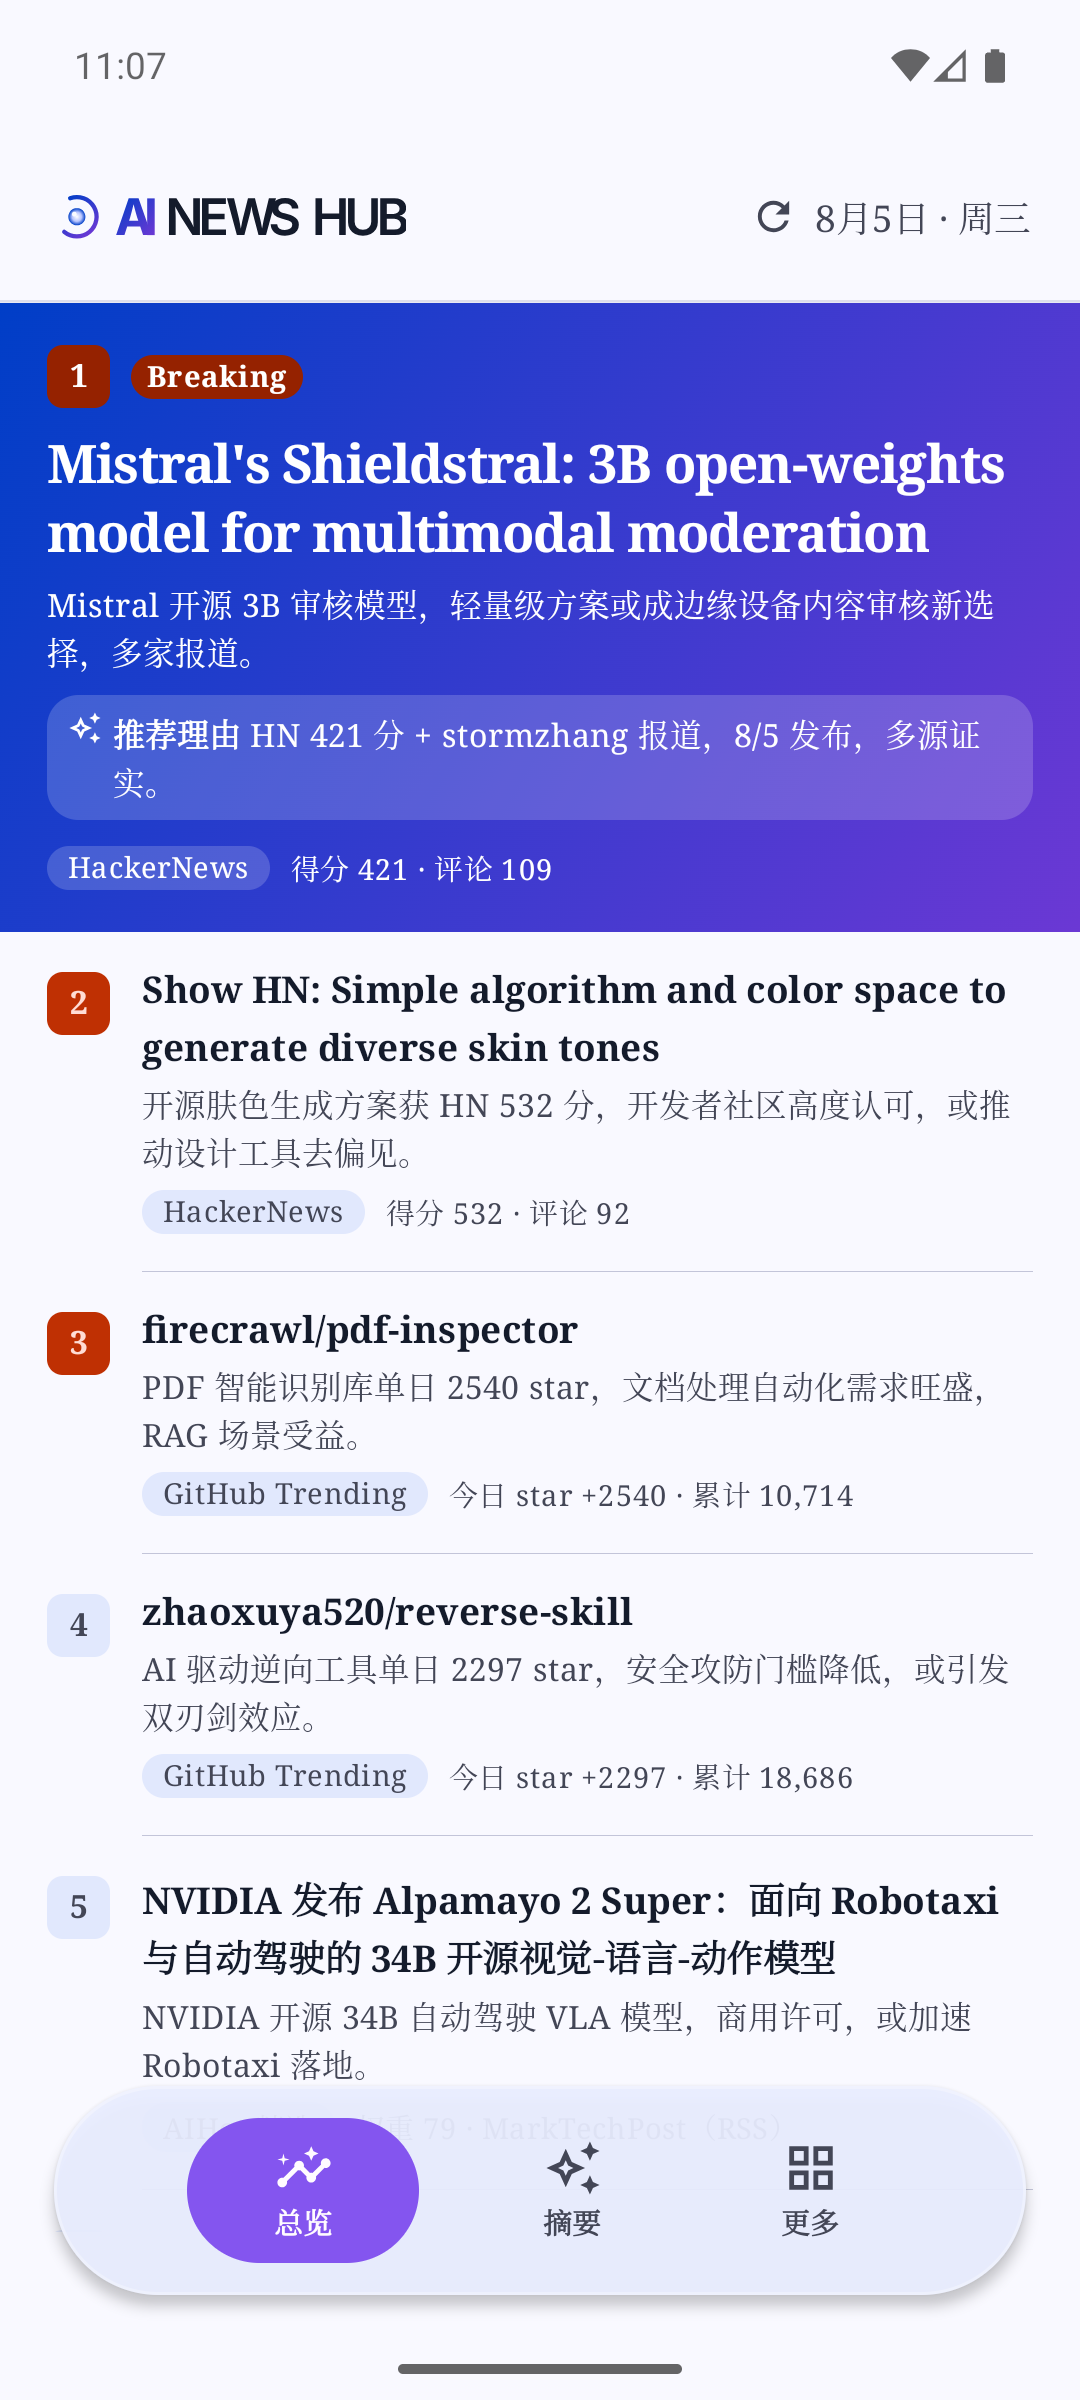
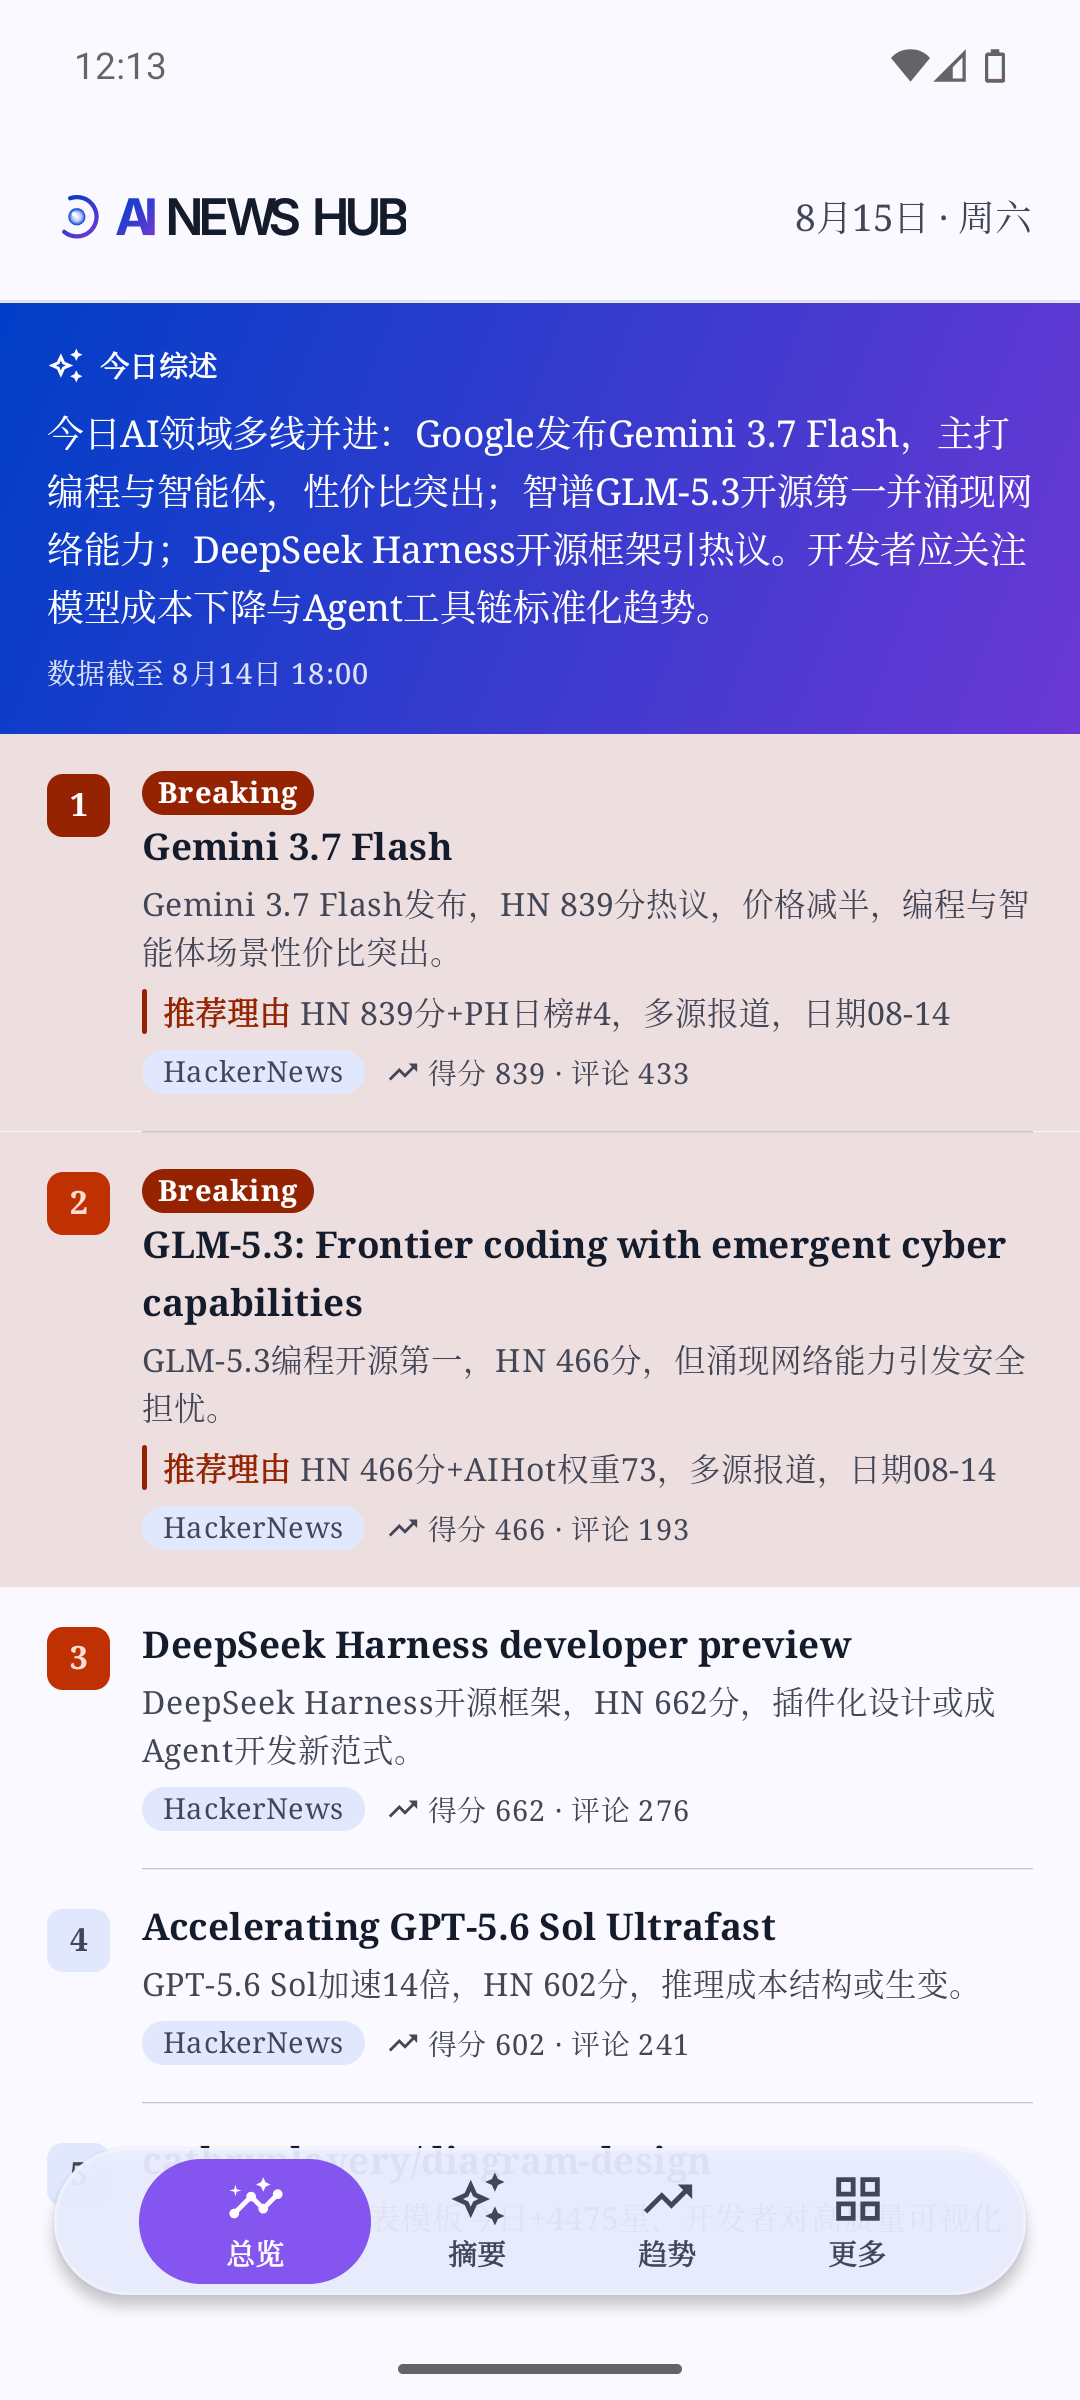
docs: sync docs and screenshots with v1.2.0 features
- README (en/zh): four root tabs with Trends, pull-to-refresh note,
  favorites & daily-notification entries, WebView star/auto-hide bullets,
  drop stale Inter Font credit and live-fetch row, add WorkManager 2.10.0,
  multi-batch pipeline wording, 5-per-row screenshot grid incl. Trends
- CHANGELOG: record WebView bottom-bar auto-hide and perf fixes under 1.2.0
- AGENTS.md: note 08:00/18:00 pipeline batches run on external machines
- data usage doc: multi-batch schedule, fix stale tab naming
- screenshots: retake all screens on current build (1080x2400), add Trends

diff --git a/README.md b/README.md
@@ -21,7 +21,7 @@ Download the latest APK from the [Releases](https://github.com/burgessjp/AI-News
 ## Why use it
 
 - **Read the whole AI world in one screen** — Aggregates 8 high-quality sources (HackerNews, GitHub Trending, HuggingFace Papers, Product Hunt, and more) so you can catch up on the day in one app.
-- **AI does the heavy lifting** — A companion pipeline pre-generates Chinese bullet points for every source and a cross-source "Today's Top 10" every day. Open and read instantly, zero waiting. Breaking items are flagged.
+- **AI does the heavy lifting** — A companion pipeline pre-generates Chinese bullet points for every source, a cross-source "Today's Top 10", and a keyword-trends leaderboard every day. Open and read instantly, zero waiting. Breaking items are flagged.
 - **You control the sources** — long-press and drag the source tiles to customize the order.
 - **Your AI key stays yours** — Runtime AI features like full-page translation ship with no built-in key. You bring your own provider (DeepSeek / Zhipu GLM / any OpenAI-compatible service), stored only in app-private storage.
 - **Read everything in-app** — Every link in the app opens in the built-in WebView with Reader Mode and full-page translation. No jumping out to an external browser.
@@ -31,7 +31,7 @@ Download the latest APK from the [Releases](https://github.com/burgessjp/AI-News
 
 ## 📖 Overview
 
-**AI News Hub** aggregates multiple high-quality AI sources — HackerNews, GitHub Trending, HuggingFace Papers, Product Hunt, stormzhang AI, The Rundown AI, OpenAI × Anthropic updates, plus the "AIHot Picks" and AI Daily from `aihot.virxact.com` — and layers on top of them "Today's Top 10", "Chinese summaries", and "full-page translation" so you can finish the day's AI news in a single app.
+**AI News Hub** aggregates multiple high-quality AI sources — HackerNews, GitHub Trending, HuggingFace Papers, Product Hunt, stormzhang AI, The Rundown AI, OpenAI × Anthropic updates, plus the "AIHot Picks" and AI Daily from `aihot.virxact.com` — and layers on top of them "Today's Top 10", "keyword trends", "Chinese summaries", and "full-page translation" so you can finish the day's AI news in a single app.
 
 - Tech stack: Kotlin + Jetpack Compose + Material 3
 - Single-module project, package name `com.peng.ainewshub`
@@ -39,25 +39,28 @@ Download the latest APK from the [Releases](https://github.com/burgessjp/AI-News
 
 ## Screenshots
 
-| Overview | Summary | Sources | HackerNews |
-|:---:|:---:|:---:|:---:|
-| <img src="docs/screenshots/01-overview.png" width="200" alt="Overview"> | <img src="docs/screenshots/02-summary.png" width="200" alt="Summary"> | <img src="docs/screenshots/03-sources.png" width="200" alt="Sources"> | <img src="docs/screenshots/04-hackernews.png" width="200" alt="HackerNews"> |
+| Overview | Trends | Summary | Sources | HackerNews |
+|:---:|:---:|:---:|:---:|:---:|
+| <img src="docs/screenshots/01-overview.png" width="160" alt="Overview"> | <img src="docs/screenshots/02-trends.png" width="160" alt="Trends"> | <img src="docs/screenshots/03-summary.png" width="160" alt="Summary"> | <img src="docs/screenshots/04-sources.png" width="160" alt="Sources"> | <img src="docs/screenshots/05-hackernews.png" width="160" alt="HackerNews"> |
 
-| OpenAI × Anthropic | GitHub Trending | The Rundown AI | Settings |
-|:---:|:---:|:---:|:---:|
-| <img src="docs/screenshots/05-openai-anthropic.png" width="200" alt="OpenAI × Anthropic"> | <img src="docs/screenshots/06-github-trending.png" width="200" alt="GitHub Trending"> | <img src="docs/screenshots/07-the-rundown-ai.png" width="200" alt="The Rundown AI"> | <img src="docs/screenshots/08-settings.png" width="200" alt="Settings"> |
+| GitHub Trending | OpenAI × Anthropic | The Rundown AI | Settings | |
+|:---:|:---:|:---:|:---:|:---:|
+| <img src="docs/screenshots/06-github-trending.png" width="160" alt="GitHub Trending"> | <img src="docs/screenshots/07-openai-anthropic.png" width="160" alt="OpenAI × Anthropic"> | <img src="docs/screenshots/08-the-rundown-ai.png" width="160" alt="The Rundown AI"> | <img src="docs/screenshots/09-settings.png" width="160" alt="Settings"> | |
 
 ---
 
 ## ✨ Core features
 
-### Three root tabs
+### Four root tabs
 
 | Tab | What it does |
 |-----|--------|
-| **Overview** | Cross-source "Today's Top 10" — a comprehensive analysis pre-generated by the pipeline. Items the AI flags as "breaking" get a Breaking badge and a distinct style, pinned to the top. Open and read, zero waiting. |
-| **Summary** | The day's AI bullet points (in Chinese, pre-generated by the pipeline) for 8 archived sources. Instant, no waiting. |
-| **More** | Settings, AI service config, source hub, archive history, AI Daily archive, About, etc. |
+| **Overview** | The day's cross-source digest (a 2–3 sentence "today at a glance" hero) plus "Today's Top 10" — both pre-generated by the pipeline. Items the AI flags as "breaking" get a Breaking badge and a distinct style, sorted to the top. Open and read, zero waiting. |
+| **Summary** | The day's AI bullet points (in Chinese, pre-generated by the pipeline) for 8 archived sources; tap an entry to open the original article in the built-in WebView. Instant, no waiting. |
+| **Trends** | Cross-source keyword leaderboard computed from the last 14 days of snapshots (pure statistics, no AI): window hit counts, a mini trend line, and up/down markers; tap a keyword to expand its representative articles. |
+| **More** | Settings, AI service config, source hub, favorites (read-later), archive history, AI Daily archive, About, etc. |
+
+The three content tabs (Overview / Summary / Trends) support **pull-to-refresh**, which bypasses the archive cache to pick up the pipeline's latest batch right away.
 
 ### Browse area (More → Sources)
 
@@ -86,6 +89,8 @@ Every link in the app opens in-app, never in an external browser:
 
 - Reader Mode (injects Mozilla Readability to extract the article body)
 - Full-page translation (side-by-side with the original, draggable half/full-screen panel)
+- Star any page from the top bar to save it to Favorites (read-later)
+- The bottom toolbar auto-hides while scrolling down and comes back on scroll up
 - Web downloads, HTML5 video fullscreen, long-press image/link actions
 - Font size follows the system setting
 
@@ -93,7 +98,8 @@ Every link in the app opens in-app, never in an external browser:
 
 - **AI Daily** and **historical archive** (browse back by date)
 - **Search**: local search history + trending-word hints from Today's Hot
-- **Browsing history** (stored locally in Room)
+- **Browsing history & Favorites** (stored locally in Room; star any page from the built-in WebView to read it later)
+- **Daily update notification** (optional, off by default): a local notification when the pipeline publishes new content, at most one per day; with it on, a cold start on new data also shows a quick "view" dialog
 - **Theme**: Material You dynamic color (Android 12+), font family toggle (default / serif / monospace), size presets, dark mode
 - **Languages**: switch between Simplified Chinese and English
 
@@ -160,8 +166,8 @@ Open the app → **More → AI Service**, pick a provider preset (DeepSeek / Zhi
 | Category | Source | Notes |
 |------|------|------|
 | Third-party API | `aihot.virxact.com` public API | AIHot Picks (Today's Hot + TOP20), AI Daily and archive |
-| Third-party · live | HackerNews, GitHub Trending, HuggingFace Papers, etc. | Fetched directly inside the app |
-| Third-party · archive | Companion data pipeline | Fetched daily at 15:30 (Beijing time) + AI-summarized + pushed to the [gitcode data repo](https://gitcode.com/peng1818/AI-News-Hub-Data) |
+| Third-party · live (partial) | HackerNews comments | Fetched live from the Firebase API inside the app; all source lists read archived snapshots (live mode not exposed) |
+| Third-party · archive | Companion data pipeline | Fetched in daily batches (Beijing time; this repo's CI covers the 15:30 batch) + AI-summarized + pushed to the [gitcode data repo](https://gitcode.com/peng1818/AI-News-Hub-Data) |
 | Runtime AI (user-supplied key) | User-provided | Web full-page translation, system text-selection translation |
 
 The data-repo format is documented in [`docs/news-hub-data-usage.md`](docs/news-hub-data-usage.md).
@@ -232,6 +238,7 @@ The pipeline is orchestrated by `scripts/pipeline.sh`; missing any hard-required
 | Coil | 2.7.0 |
 | Room | 2.6.1 |
 | DataStore | 1.1.1 |
+| WorkManager (daily notification) | 2.10.0 |
 | Glance (home widget) | 1.1.1 |
 | KSP | 2.0.21-1.0.28 |
 | minSdk | 24 (Android 7.0) |
@@ -259,7 +266,6 @@ This project is built on these excellent open-source components:
 | Library / asset | Use | License |
 |---|---|---|
 | [Mozilla Readability](https://github.com/mozilla/readability) | WebView Reader Mode body extraction | Apache-2.0 |
-| [Inter Font](https://github.com/rsms/inter) | Embedded font | SIL OFL 1.1 |
 
 ### AndroidX / Jetpack
 
@@ -269,6 +275,7 @@ This project is built on these excellent open-source components:
 | [Activity-Compose](https://developer.android.com/jetpack/androidx/releases/activity) | Compose integration (incl. predictive back gesture) | Apache-2.0 |
 | [Lifecycle](https://developer.android.com/jetpack/androidx/releases/lifecycle) + [ViewModel](https://developer.android.com/topic/libraries/architecture/viewmodel) | Lifecycle and state management | Apache-2.0 |
 | [DataStore](https://developer.android.com/topic/libraries/architecture/datastore) | Preference persistence | Apache-2.0 |
+| [WorkManager](https://developer.android.com/topic/libraries/architecture/workmanager) | Daily-update notification scheduling | Apache-2.0 |
 | [Room](https://developer.android.com/jetpack/androidx/releases/room) | SQLite abstraction (browsing history) | Apache-2.0 |
 | [Glance](https://developer.android.com/jetpack/androidx/releases/glance) | Home-screen widget | Apache-2.0 |
 | [WebKit](https://developer.android.com/jetpack/androidx/releases/webkit) | Built-in WebView enhancements | Apache-2.0 |

diff --git a/AGENTS.md b/AGENTS.md
@@ -51,7 +51,7 @@
 - **总览 Tab 同样不在 App 端调 AI**，直接读 `index.json` 顶层 `latest_overview` 字段（流水线 `scripts/overview_summary.py` 预生成的跨源综合分析，含 `digest` 今日综述 + Top10 items + breaking 标记；`digest` 可能为空串，空串不渲染）。App 端 `OverviewRepository` 只做反序列化，不再有端侧 AI 调用 / 缓存 / ConfigMissing 引导态。字段缺失走 NoData 空态。首屏 digest Hero = BrandGradient 通栏（「今日综述」label + digest 正文 + 数据截至 caption；digest 空串退化为纯文本时效行），Top10 无头条特殊位统一平铺。
 - **趋势 Tab 同样纯读归档**，直接读 `index.json` 顶层 `latest_trends` 字段（流水线 `scripts/trend_keywords.py` 在 push 阶段对近 14 天快照做的**纯统计**热词词频分析，**不调 AI**、确定性结果：窗口期命中数 + 每日序列 + 涨跌 + ≤3 条代表条目）。App 端 `TrendsRepository` 只做反序列化，字段缺失走 NoData 空态。UI 为热词榜平铺（RankBadge + 命中统计 + Canvas 手绘 sparkline + 涨跌箭头），点击词条展开代表条目经 `openUrl` 进内置 WebView。
 - **桌面小组件「今日热点」**（`widget/` 包，Glance）：只读归档 `latest_overview`（与总览同源同语义，与 SourceMode 无关）。缓存为 App 级 SharedPreferences `hot_now_widget`（多小组件实例共享，刻意不用 Glance per-id 状态）。刷新三路：系统 30min `updatePeriodMillis` / 头部按钮 `RefreshHotNowAction` / App 总览刷新成功联动（`HotNowWidgetUpdater.refreshFromApp`，同进程命中 ArchiveHttpClient 2 分钟缓存，零额外网络）。拉取失败保留旧数据不清空（小组件无错误交互入口）。配色直接取 `ui/theme/Color.kt` 设计令牌组 day/night `ColorProvider`（App 迷你版，不用壁纸动态色）；条目只展示排名 + 标题（+突发胶囊），来源/互动指标刻意不上小组件；Glance 1.1.1 不支持 res/font 自定义字体，层级靠字号 + 字重。
-- **每日更新本地通知**（`notify/` 包，`DailyUpdateNotifier.kt` 单文件三角色：Notifier / Scheduler / Worker）：WorkManager one-shot 自查链轮询归档 `latest_overview.generatedAt` 指纹（不用 `updated_at_ms`，总览失败继承旧值时不误报），检查时刻表对齐流水线批次（北京时间 08:40 / 16:10 / 18:40 = 各批次 +40min 余量，**改流水线批次时间必须同步改 `CHECK_SLOTS`**）；档内未就绪 40min 补查最多 2 次。每天（北京时间）至多 1 条（当天首批时发，之后批次静默），正文 digest 始终中文。设置页开关默认关，存 `display_prefs` 的 `daily_notify` 键；API 33+ 打开时经设置页请求 `POST_NOTIFICATIONS` 运行时权限。Worker 除「开关已关」外所有路径先续链再干活（失败不断链），刻意不用 `Result.retry()`；任务持久化跨重启，无 boot receiver。
+- **每日更新本地通知**（`notify/` 包，`DailyUpdateNotifier.kt` 单文件三角色：Notifier / Scheduler / Worker）：WorkManager one-shot 自查链轮询归档 `latest_overview.generatedAt` 指纹（不用 `updated_at_ms`，总览失败继承旧值时不误报），检查时刻表对齐流水线批次（北京时间 08:40 / 16:10 / 18:40 = 各批次 +40min 余量，**改流水线批次时间必须同步改 `CHECK_SLOTS`**；批次 08:00 / 18:00 由仓库外机器调度，仓库 workflow 仅承载 15:30 批——勿因 workflow 只有一个 cron 误判 CHECK_SLOTS 为 bug）；档内未就绪 40min 补查最多 2 次。每天（北京时间）至多 1 条（当天首批时发，之后批次静默），正文 digest 始终中文。设置页开关默认关，存 `display_prefs` 的 `daily_notify` 键；API 33+ 打开时经设置页请求 `POST_NOTIFICATIONS` 运行时权限。Worker 除「开关已关」外所有路径先续链再干活（失败不断链），刻意不用 `Result.retry()`；任务持久化跨重启，无 boot receiver。
   - **冷启动新数据弹窗随同一开关**（`MainActivity`）：开关开启时每次冷启动比对指纹（`last_notified_overview_at`），落后于最新 `generatedAt` 即弹全局 AlertDialog（「查看」直达总览根页 /「忽略」），确认与忽略都写回指纹 —— 与通知互补：每天至多 1 条提醒，通知或弹窗任一形式先触达即静默。取数与总览 Tab 共享 `ArchiveHttpClient` 2 分钟缓存，冷启动零额外请求。
 - **源标识 / 元数据单点定义**：8 源（HackerNews / GitHub Trending / OpenAI×Anthropic / HuggingFace Papers / Product Hunt / The Rundown AI / AIHot 精选 / stormzhang AI）的 **key 字面量集中于 `data/SourceKeys.kt`**（全 App 唯一真相源，归档 Repository / 摘要 Repository / UI 跳转分发 / 强调色 when 分支一律引用其常量，不写裸字符串，杜绝 key 漂移静默断裂）；**UI 元数据**（icon / 品牌色 / 标题 / 副标题 / URL）集中于 `ui/more/SourceMeta.kt` 的 `sourceMeta(key)`，`DEFAULT_SOURCE_ORDER` 为默认顺序。信息源页 / 摘要 Tab / 关于页三处都从 `sourceMeta(key)` 派生，不再各自硬编码。
   - 用户在「信息源」页长按拖拽自定义顺序（reorderable 库），持久化于 `display_prefs` 的 `source_order` 键；**摘要 Tab 跟随用户顺序**（`SummaryViewModel.sourceKeys` 读 `SettingsStore.sourceOrderFlow`），**关于页固定默认顺序**。

diff --git a/CHANGELOG.md b/CHANGELOG.md
@@ -11,6 +11,11 @@
 - **收藏(稍后读)** — WebView 顶栏星标收藏当前页面,「更多 → 收藏」统一管理:按时间倒序、滑动删除(可撤销)、一键清空、重新打开;升级保留既有数据
 - **根 Tab 下拉刷新** — 总览/摘要/趋势支持下拉刷新手势,替代右上角刷新按钮;手动刷新绕过缓存,立即看到流水线新批次
 - **冷启动新数据弹窗** — 「每日更新通知」开启时,冷启动检测到新数据弹全局提示(「查看」直达总览/「忽略」),与每日通知互补且每天至多提醒一次
+- **WebView 底栏滚动自动隐藏** — 网页向下滚动时悬浮底栏自动收起,向上滚动复现,长文阅读不被遮挡
+
+### 改进
+
+- **性能优化** — 修复性能审计发现的数据层、列表与冷启动热点;骨架屏统一共享单一 shimmer 过渡
 
 ## [1.1.1] - 2026-08-13
 
